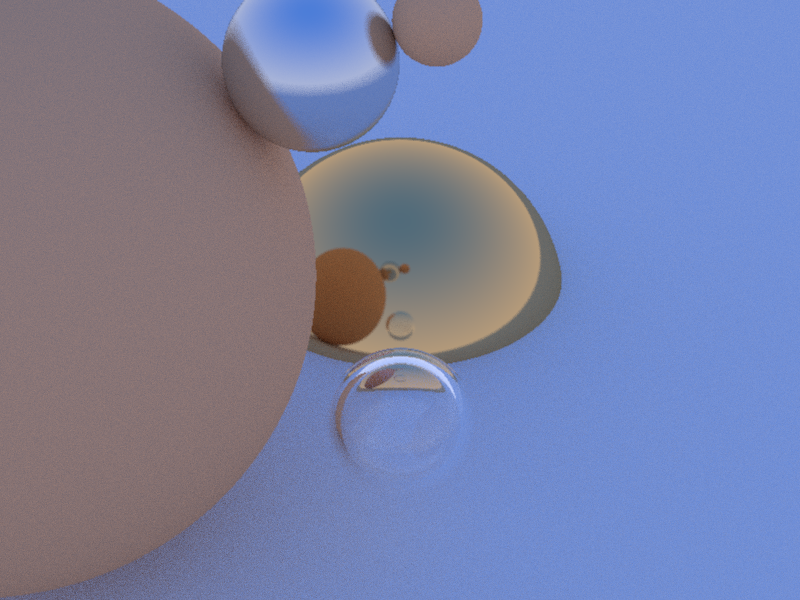
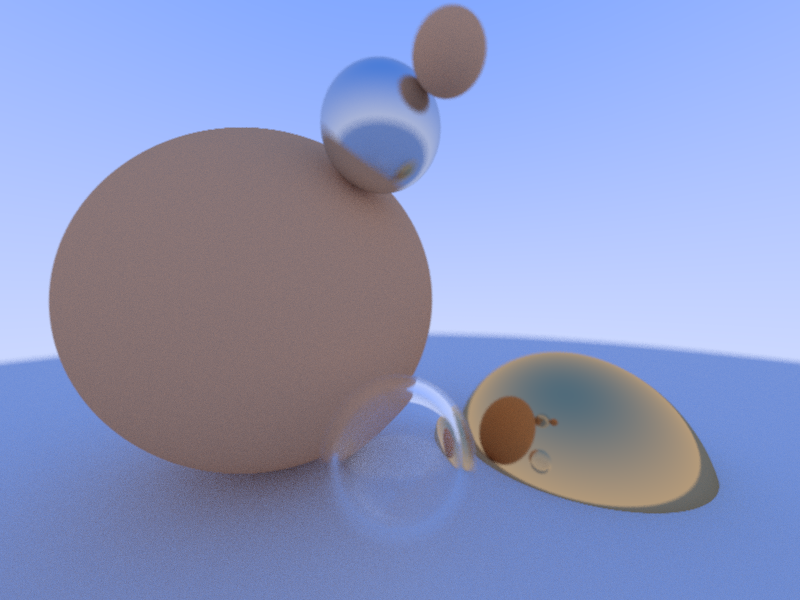
Added defocus blur (depth of field)

diff --git a/src/tracer.cpp b/src/tracer.cpp
@@ -46,8 +46,8 @@ void Tracer::CreateMyScene()
     objs.push_back(make_shared<Sphere>(Point(1.2, -1.2, -2.2), 0.8, gold));
 
     // Glass bubble in front
-    shared_ptr<Material> glass = make_shared<Glass>(1.5, 1);
-    shared_ptr<Material> bubble = make_shared<Glass>(1.0 / 1.5, 1);
+    shared_ptr<Material> glass = make_shared<Glass>(1.5);
+    shared_ptr<Material> bubble = make_shared<Glass>(1.0 / 1.5);
     objs.push_back(make_shared<Sphere>(Point(0, -0.5, -1), 0.25, glass));
     objs.push_back(make_shared<Sphere>(Point(0, -0.5, -1), 0.2, bubble));
 }
@@ -57,14 +57,58 @@ void Tracer::CreateBookScene()
     sky_blue = Color(0.5, 0.7, 1.0);
     auto material_ground = make_shared<Lambertian>(Color(0.8, 0.8, 0.0));
     auto material_center = make_shared<Lambertian>(Color(0.1, 0.2, 0.5));
-    auto material_left = make_shared<Glass>(1.50, 1);
-    auto material_bubble = make_shared<Glass>(1.0 / 1.50, 1);
+    auto material_left = make_shared<Glass>(1.50);
+    auto material_bubble = make_shared<Glass>(1.0 / 1.50);
     auto material_right = make_shared<Metal>(Color(0.8, 0.6, 0.2), 1.0);
     objs.push_back(make_shared<Sphere>(Point( 0.0, -100.5, -1.0), 100.0, material_ground));
     objs.push_back(make_shared<Sphere>(Point( 0.0,    0.0, -1.2),   0.5, material_center));
     objs.push_back(make_shared<Sphere>(Point(-1.0,    0.0, -1.0),   0.5, material_left));
     objs.push_back(make_shared<Sphere>(Point(-1.0,    0.0, -1.0),   0.4, material_bubble));
     objs.push_back(make_shared<Sphere>(Point( 1.0,    0.0, -1.0),   0.5, material_right));
+}
+
+void Tracer::CreateBookFinalScene()
+{
+    auto ground_material = make_shared<Lambertian>(Color(0.5, 0.5, 0.5));
+    objs.push_back(make_shared<Sphere>(Point(0,-1000,0), 1000, ground_material));
+
+    for (int a = -11; a < 11; a++) {
+        for (int b = -11; b < 11; b++) {
+            auto choose_mat = rand.gen_uniform();
+            Point center(a + 0.9*rand.gen_uniform(), 0.2, b + 0.9*rand.gen_uniform());
+
+            if ((center - Point(4, 0.2, 0)).norm() > 0.9) {
+                shared_ptr<Material> sphere_material;
+
+                if (choose_mat < 0.8) {
+                    // diffuse
+                    auto albedo = pointwise_prod(Color(rand.gen_uniform(), rand.gen_uniform(), rand.gen_uniform()),
+                                    Color(rand.gen_uniform(), rand.gen_uniform(), rand.gen_uniform()));
+                    sphere_material = make_shared<Lambertian>(albedo);
+                    objs.push_back(make_shared<Sphere>(center, 0.2, sphere_material));
+                } else if (choose_mat < 0.95) {
+                    // metal
+                    auto albedo = Color(rand.gen_uniform(0.5, 1), rand.gen_uniform(0.5, 1), rand.gen_uniform(0.5, 1)); 
+                    auto fuzz = rand.gen_uniform(0, 0.5);
+                    sphere_material = make_shared<Metal>(albedo, fuzz);
+                    objs.push_back(make_shared<Sphere>(center, 0.2, sphere_material));
+                } else {
+                    // glass
+                    sphere_material = make_shared<Glass>(1.5);
+                    objs.push_back(make_shared<Sphere>(center, 0.2, sphere_material));
+                }
+            }
+        }
+    }
+
+    auto material1 = make_shared<Glass>(1.5);
+    objs.push_back(make_shared<Sphere>(Point(0, 1, 0), 1.0, material1));
+
+    auto material2 = make_shared<Lambertian>(Color(0.4, 0.2, 0.1));
+    objs.push_back(make_shared<Sphere>(Point(-4, 1, 0), 1.0, material2));
+
+    auto material3 = make_shared<Metal>(Color(0.7, 0.6, 0.5), 0.0);
+    objs.push_back(make_shared<Sphere>(Point(4, 1, 0), 1.0, material3));
 }
 
 Color Tracer::calc_color(const Ray &ray, int max_depth)

diff --git a/src/viewport.cpp b/src/viewport.cpp
@@ -1,7 +1,7 @@
 #include "viewport.h"
 
 Viewport::Viewport(int screen_width, double vertical_fov,
-                    Point look_from, Point look_at, Vec3 vup)
+                    Point look_from, Point look_at, Vec3 vup, double lens_cone_angle)
 {
     // Set origin of rays and camera orthonormal system
     camera_center = look_from;
@@ -16,7 +16,7 @@ Viewport::Viewport(int screen_width, double vertical_fov,
     screen_height = int(screen_width / ASPECT_RATIO);
     screen_height = screen_height < 1 ? 1 : screen_height;
     double actual_aspect_ratio = double(screen_width) / double(screen_height);
-    viewport_height = 2 * std::tan(vertical_fov / 2) * focal_length;
+    viewport_height = 2 * std::tan(vertical_fov / 2.0) * focal_length;
     viewport_width = viewport_height * actual_aspect_ratio;
 
     // Calculate viewport rect
@@ -29,10 +29,25 @@ Viewport::Viewport(int screen_width, double vertical_fov,
     horizontal_delta = horizontal_vec / screen_width;
     vertical_delta = vertical_vec / screen_height;
     first_pixel = Point(top_left + 0.5 * horizontal_delta + 0.5 * vertical_delta);
+    
+    // Calculate lens vectors
+    lens_radius = std::tan(lens_cone_angle / 2.0) * focal_length;
+    lens_horizontal_vec = lens_radius * u;
+    lens_vertical_vec = lens_radius * v;
 }
 
-Ray Viewport::get_ray(int x, int y) const
+Ray Viewport::get_ray(int x, int y) 
 {
-    Vec3 direction = first_pixel + (x * horizontal_delta) + (y * vertical_delta) - camera_center;
-    return Ray(camera_center, direction);
+    double lens_x = 0, lens_y = 0;
+    if (lens_radius > 0)
+    {
+        do
+        {
+            lens_x = rand.gen_uniform();
+            lens_y = rand.gen_uniform();
+        } while (lens_x * lens_x + lens_y * lens_y > 1);
+    }
+    Point origin = camera_center + lens_x * lens_horizontal_vec + lens_y * lens_vertical_vec;
+    Vec3 direction = first_pixel + (x * horizontal_delta) + (y * vertical_delta) - origin;
+    return Ray(origin, direction);
 }

diff --git a/src/viewport.h b/src/viewport.h
@@ -3,6 +3,7 @@
 
 #include "vec3.h"
 #include "ray.h"
+#include "random.h"
 
 #define ASPECT_RATIO (4.0/3.0)
 
@@ -15,9 +16,9 @@ class Viewport
         // screen_width is the width (in pixels) of the display window.
         // vertical_fov (field of view) is the angle (in radians) between the upper and lower edges of the viewport.
         Viewport(int screen_width, double vertical_fov,
-                Point look_from, Point look_at, Vec3 vup);
+                Point look_from, Point look_at, Vec3 vup, double lense_cone_angle);
         
-        Ray get_ray(int x, int y) const;
+        Ray get_ray(int x, int y);
 
         int screen_width;
         int screen_height;
@@ -41,6 +42,12 @@ class Viewport
         Point top_left;
         Vec3 horizontal_vec;
         Vec3 vertical_vec;
+        
+        // Lens
+        double lens_radius;
+        Vec3 lens_horizontal_vec;
+        Vec3 lens_vertical_vec;
+        Random rand;
         
         // Distance between pixels
         Vec3 horizontal_delta; 

diff --git a/src/main.cpp b/src/main.cpp
@@ -4,7 +4,7 @@
 
 #define PI              3.1415926535897932385
 #define SCREEN_WIDTH    800
-#define VFOV            (PI / 6)
+#define VFOV            (PI / 2)
 
 int main(int argc, char **argv)
 {
@@ -12,9 +12,10 @@ int main(int argc, char **argv)
     (void)argv; // Mark as unused
     
     // Define camera position
-    Point look_from(-2, 2, 1);
-    Point look_at(0, 0, -1);
+    Point look_from(0, 0, 0);
+    Point look_at(0, 0, -1.5);
     Vec3 vup(0, 1, 0);
+    double lens_cone_angle = PI / 48;
 
     if (are_parallel(look_at - look_from, vup))
     {
@@ -23,7 +24,7 @@ int main(int argc, char **argv)
     }
 
     Tracer tracer;
-    Viewport view(SCREEN_WIDTH, VFOV, look_from, look_at, vup);
+    Viewport view(SCREEN_WIDTH, VFOV, look_from, look_at, vup, lens_cone_angle);
     Image image("orot.ppm", &tracer, &view);
 
     bool result = image.render();

diff --git a/src/materials/glass.h b/src/materials/glass.h
@@ -8,7 +8,7 @@ class Glass : public Material
     public:
         // material_refract_idx is the refraction index of the material relative to the embedding space.
         // p is the probability that a hitting ray will be refracted.
-        Glass(double material_refract_idx, double p);
+        Glass(double material_refract_idx);
         
         // Calculates a new scattered ray that is either reflected or refracted with probability p.
         bool scatter(const Ray& in, const Point hit_point, const Vec3 &normal, Random &randomizer,
@@ -17,7 +17,6 @@ class Glass : public Material
     private:
         double inward_refract_idx;
         double outward_refract_idx;
-        double p;
 
         static double reflection_coeff(double refraction, double cosine_theta);
 };

diff --git a/src/materials/glass.cpp b/src/materials/glass.cpp
@@ -1,7 +1,7 @@
 #include "glass.h"
 #include "vec3.h"
 
-Glass::Glass(double material_refract_idx, double p) : p(p)
+Glass::Glass(double material_refract_idx)
 {
     color = Color(1.0, 1.0, 1.0);
     inward_refract_idx = 1.0 / material_refract_idx;
@@ -53,5 +53,5 @@ bool Glass::scatter(const Ray& in, const Point hit_point, const Vec3 &normal, Ra
     }
 
     attenuation = color;
-    return p>0;
+    return true;
 }

diff --git a/src/image.cpp b/src/image.cpp
@@ -8,8 +8,8 @@
 
 #define MAX_COLOR 255
 #define GAMMA 2.2
-#define SAMPLES_PER_PIXEL 50
-#define RAY_BOUNCE_LIMIT 50
+#define SAMPLES_PER_PIXEL 100
+#define RAY_BOUNCE_LIMIT 30
 
 Image::Image(const std::string &filename, Tracer *tracer, Viewport *view) : 
         filename(filename), tracer(tracer), view(view), width(view->screen_width), height(view->screen_height) {}

diff --git a/src/math/random.h b/src/math/random.h
@@ -15,7 +15,7 @@ class Random
 
         // Returns a random number in [min_val, max_val)
         double gen_uniform(double min_val, double max_val);
-
+        
         // Returns a random unit vector
         Vec3 gen_uniform_unit_vec();
         

diff --git a/src/tracer.h b/src/tracer.h
@@ -22,6 +22,7 @@ class Tracer
         
         void CreateMyScene();
         void CreateBookScene();
+        void CreateBookFinalScene();
 };
 
 #endif // _TRACER_H_ 
